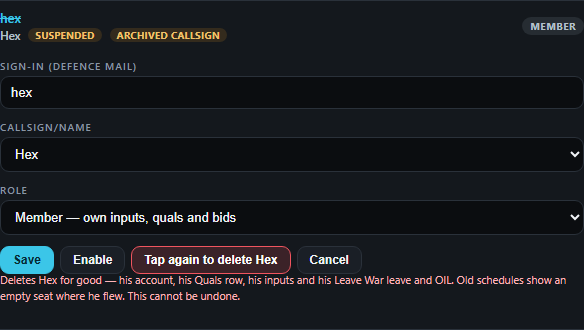
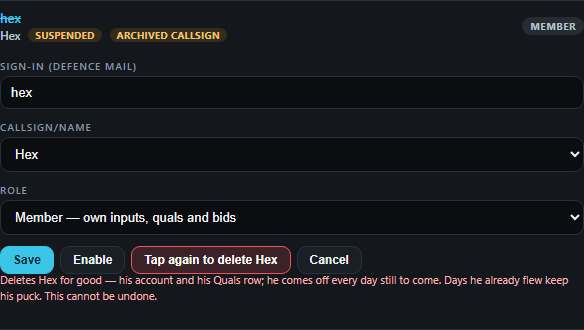
ruling D297 -- a man deleted for leaving flying for good keeps his puck on every day he already flew, and is taken off days still to come (narrows D287 -- marked; data-model, engine-rules, [POST-OUT-OUTCOMES] corrected); the mock-up's section 5 redrawn and republished (Version 3). Documents only.

Changed region(s): [[0.0, 0.8182, 0.9863, 0.9091]]

diff --git a/raptor-port/docs/mock/post-out.html b/raptor-port/docs/mock/post-out.html
@@ -108,14 +108,14 @@
   </section>
 
   <section>
-    <div class="head"><h2>5 · Leaving flying for good: deleted — account and person</h2><span class="rul">D287 · D290</span></div>
-    <p>Delete asks twice and says what goes. Afterwards he's on no list and his callsign is free; every day he was on
-      shows an empty seat, published days included. Underneath, his record is kept as a hidden "deleted" mark, never
-      erased.</p>
+    <div class="head"><h2>5 · Leaving flying for good: deleted — account and person</h2><span class="rul">D287 · D290 · D297</span></div>
+    <p>Delete asks twice and says what goes. Afterwards he's on no list and his callsign is free. <b>Every day he already
+      flew keeps his puck</b>, published or not; <b>days still to come lose him</b>. Underneath, his record is kept as a
+      hidden "deleted" mark, never erased.</p>
     <div class="pics">
       <figure class="mid"><img src="img/post-out/desktop-2b-delete-confirm.png" alt="The account editor asking to tap again to delete Hex, listing what goes"><figcaption><span class="tag drawn">drawn</span>the second tap, and what goes</figcaption></figure>
-      <figure class="mid"><img src="img/post-out/desktop-5a-before-delete.png" alt="Tuesday's RU line: Drifter and Vector"><figcaption><span class="tag real">real</span>before — Tuesday's RU line: Drifter and Vector</figcaption></figure>
-      <figure class="mid"><img src="img/post-out/desktop-5b-after-delete.png" alt="The same line after Vector is deleted: Drifter and an empty seat"><figcaption><span class="tag real">real</span>after Vector is deleted — an empty seat</figcaption></figure>
+      <figure class="mid"><img src="img/post-out/desktop-5a-before-delete.png" alt="Tuesday's RU line: Drifter and Vector"><figcaption><span class="tag real">real</span>a day he already flew — his puck stays, as here</figcaption></figure>
+      <figure class="mid"><img src="img/post-out/desktop-5b-after-delete.png" alt="The same line after Vector is deleted: Drifter and an empty seat"><figcaption><span class="tag real">real</span>a day still to come — he's taken off (today's raw delete does this to every day; the build only to days to come)</figcaption></figure>
     </div>
   </section>
 
@@ -156,7 +156,7 @@
     <div class="head"><h2>What I need from you</h2></div>
     <ol>
       <li><b>Approve the mock-up</b>, or tell me what to change (a section number is enough).</li>
-      <li><b>Section 5:</b> should the days a deleted man already flew keep his puck? (See my answer in the chat.)</li>
+      <li><b>Section 5, his Leave War record:</b> keep his past leave and OIL, shown only in the months he was here? (See my answer in the chat.)</li>
     </ol>
   </section>
 </main>

diff --git a/.claude/rules/decisions/how-we-work.md b/.claude/rules/decisions/how-we-work.md
@@ -9,6 +9,7 @@ never pay or money).
 
 | # | Date | His ruling, in his words where short enough | What it means | Where it lives now |
 |---|---|---|---|---|
+| D297 | 27 Sep 26 | **"5. recommended yes"** — to *"Can a deleted man keep his puck on schedules already published? … Every day he already flew keeps his puck, published or not; days still to come lose him; he's gone from everything else; if his callsign is given to someone new, old days still show the old man"* (after his own *"if this person is deleted. Can published schedules with the user still retain the puck?"*) | **A MAN DELETED FOR LEAVING FLYING FOR GOOD KEEPS HIS PUCK ON EVERY DAY HE ALREADY FLEW — PUBLISHED OR NOT — AND IS TAKEN OFF EVERY DAY STILL TO COME** (on a published day that reads pending, as any change does). He is gone from every list, picker, the Leave War's current views and sign-in; his callsign is free, and if a new man takes it the old days still show the old one (the app knows each by his id). **Narrows D287**, whose "every day he was on shows his seat empty, published days included" gives way — the published record stays true (D45's principle, which D287 had set aside for this act, holds again). Made possible by D290 (his record kept underneath as a hidden "deleted" mark) | `OUTSTANDING.md` `[POST-OUT-OUTCOMES]`; D287's row (narrowed); `raptor-port/docs/data-model.md` §3 Person; `raptor-port/docs/engine-rules.md` (the who→personId correction note); `raptor-port/docs/mock/post-out.html` §5 |
 | D296 | 27 Sep 26 | **"8. A"** — to *"The guest mark (section 8): A, B or C?"* on the post-out mock-up | **A GUEST FROM ANOTHER COMMUNITY IS MARKED BY AN ORANGE CORNER ON HIS PUCK (option A).** Settles D289's form, for when it is built (with the shared database, D288). Taken knowing the agent's caveat: beside a red warning chip the corner is a little less distinct | `raptor-port/docs/mock/post-out.html` §8; `OUTSTANDING.md` `[XFER]` |
 | D295 | 27 Sep 26 | *"so in order to rename, we must first change the new person, then restore the archived person in order to change his name? Can we just change the archived name directly?"* — on the mock-up's §6 (Restore refused while the callsign is taken) | **AN ARCHIVED MAN CAN BE RENAMED DIRECTLY, ON QUALS' ARCHIVED LIST.** A name clash on restore is then solved by renaming the archived man (or the new one) — no restore-first. **Refines D286** (whose reading (1) — Restore refuses while the name is taken, never renaming anyone by itself — stands). **The agent's reading, stated to him so he can correct it:** a rename box on each archived row (admin only), and when Restore meets a taken callsign it offers that same box on the spot ("Ace is taken — give him another callsign"), so the rename and the restore are one step | `raptor-port/docs/mock/post-out.html` §6; `OUTSTANDING.md` `[POST-OUT-OUTCOMES]`; on build: `raptor-port/src/ui/QualsPage.tsx` (the archived list), `raptor-port/src/engine/slots.ts` (`renameCallsign`) |
 | D294 | 27 Sep 26 | **"1. can use less words and space to have these 4 options. Change to 'Overseas Sqn', 'Fully delete', 'SANS', 'Transfer to Sqn'."** · **"3. is there a blue box drawn? if yes can u draw it connected to the left edge."** — his look at the post-out mock-up (`docs/mock/post-out.html`) | **THE POST-OUT CHOICES ARE FOUR SHORT CHIPS — "Overseas Sqn", "Fully delete", "SANS", "Transfer to Sqn" — TAKING LITTLE ROOM; AND THE "HE'S BACK" LINE ON QUALS LINES UP WITH THE PAGE'S LEFT EDGE.** Replaces the mock-up's first drawing (four wide buttons, each with a sentence). **The agent's reading, stated to him so he can correct it:** one short line under the chips says what the chosen one does on the date (the words the buttons dropped); "Sqn" alone is fine — D58 bars a squadron NUMBER paired with it, and the app already shows "EXT SQN" | `raptor-port/docs/mock/post-out.html` §1 and §3; `OUTSTANDING.md` `[POST-OUT-OUTCOMES]` |
@@ -18,7 +19,7 @@ never pay or money).
 | D290 | 27 Sep 26 | **"3. hidden mark"** — to *"Deleting underneath: a hidden 'deleted' mark (recommended) or erase for real?"*, after being told the data model for IT says a person is never erased (every record points at him) | **A MAN DELETED FOR LEAVING FLYING FOR GOOD (D287) IS KEPT UNDERNEATH AS A HIDDEN "DELETED" MARK — never erased.** On screen it is D287 exactly (gone from every list, his callsign free, his old seats reading empty); in the database his row stays, marked deleted and invisible everywhere — the data model's tombstone and the platform's own way of deleting. **Settles D287's "how"**; the data model's never-hard-deleted rule stands for the database | `raptor-port/docs/data-model.md` §3 Person and §10 (the note now says answered); `OUTSTANDING.md` `[POST-OUT-OUTCOMES]` |
 | D289 | 27 Sep 26 | **"1. yes"** · **"2. yes, what if the name is long and with the F16 on a puck, would anyone not be able to see it?"** — to *"A community = the squadrons flying one aircraft type?"* and *"A guest from another community always tagged ('Viper · F-16')?"* | **A COMMUNITY IS THE SQUADRONS FLYING ONE AIRCRAFT TYPE (F-15, F-16), AND A GUEST FROM ANOTHER COMMUNITY IS ALWAYS MARKED AS ONE.** Confirms the agent's proposal in D288, (1) and (3). **His concern stands with it:** the mark must never hide the callsign — a puck is a fixed width and never wraps (7 Aug 26), and already shows only about 9–10 letters. **The agent's reading, stated to him so he can correct it:** on a puck the mark is not text but a small colour mark (the way the CAT and SANS already ride the puck's edges), with "Viper · F-16" in full wherever there is room — the lists, the pickers, a tap or hover; its form is settled with a mock-up before it is built (the house rule for a visual change) | `OUTSTANDING.md` `[XFER]`; `raptor-port/docs/architecture-direction.md` §3; memory `multi-squadron-and-person-transfer` |
 | D288 | 27 Sep 26 | *"within the F-15 community we will try to only have 1 callsign, and not conflict it. But if we want to create a F-16 community in this app, there is a high chance that the same callsign will be used compared to the f-15 community. and sometimes they might join us to fly as like guest flyers. So how should this be managed"* | **CALLSIGNS ARE UNIQUE WITHIN A COMMUNITY, NOT ACROSS THE APP.** The F-15 community keeps one callsign per man; a future F-16 community on the same app will reuse callsigns the F-15 one has; and its people may fly with an F-15 squadron as GUEST FLYERS. **Future — with the multi-squadron database (D281, D282); nothing to build now**, but the database must not make a callsign unique across the whole app. **The agent's proposal, put to him the same day (his answers pending):** (1) a community = the squadrons flying one aircraft type; (2) the app already knows a man by a hidden id, never his name, so two "Viper"s are never mixed up in the data; (3) a guest from another community wears a small tag on his puck and in every picker ("Viper · F-16"), always; (4) a guest is PICKED from a list of guest flyers, never by typing a bare callsign — typed, a callsign means your own community's man; (5) his leave, quals and account stay with his own squadron (as D282) | `raptor-port/docs/architecture-direction.md` §3 (More than one squadron); `OUTSTANDING.md` `[XFER]`; memory `multi-squadron-and-person-transfer` |
-| D287 | 26 Sep 26 | **"I think B, truly delete him."** — choosing, for someone who LEAVES FLYING FOR GOOD, among A archive him (on the Archived list forever, old schedules keep his name), B truly delete him (gone from every list; old schedules show an empty seat where he flew) and C delete him but keep his callsign for old schedules (the agent's recommendation) — after he tested nothing crashes and asked *"what would break tho. we dont need this person on the schedule anymore"*, and worried *"I scared my archive list will be huge next time"* | **A MAN WHO LEAVES FLYING FOR GOOD IS DELETED OUTRIGHT — HIS ACCOUNT AND HIS PERSON.** He goes from every list, the Archived one included, and every day he was ever on shows his seat empty, published days included. **Sets aside the agent's recommendation (C)** and **D280's reading (2)** ("deleting an account never deletes the person"). **Narrows D45's principle** (nothing on a published schedule changes without the scheduler acknowledging it) for this one act — his call, made knowing it: he was told, with a picture from the running app, that a published day's seat then reads empty with nobody told. **The agent's readings, stated to him so he can correct them:** (1) everything that is his goes with him — his Quals row, his account, his inputs, his Leave War leave and OIL — so nothing is left stored that no screen shows; (2) on a day still to come he is taken OFF (on a published day that reads pending, as any change does), while a past day keeps its empty seat; (3) the delete asks twice and names what goes; it cannot be undone; (4) if he is ever taken back he is a new person (his 13 Sep 26 "fresh") | `OUTSTANDING.md` `[POST-OUT-OUTCOMES]`; D280's row (reading (2) set aside); on build: `raptor-port/src/state/accounts.ts`, `raptor-port/src/state/roster-add.ts` (the one place a person is made — and now unmade), `raptor-port/src/leavewar/sync.ts`, `raptor-port/docs/engine-rules.md`, `raptor-port/docs/data-model.md` §11 (`Person` D, `User` D); **`raptor-port/docs/data-model.md` §3 Person, `User.enabled` and §10 (their "never deleted" marked, 27 Sep 26)** |
+| D287 | 26 Sep 26 | **"I think B, truly delete him."** — choosing, for someone who LEAVES FLYING FOR GOOD, among A archive him (on the Archived list forever, old schedules keep his name), B truly delete him (gone from every list; old schedules show an empty seat where he flew) and C delete him but keep his callsign for old schedules (the agent's recommendation) — after he tested nothing crashes and asked *"what would break tho. we dont need this person on the schedule anymore"*, and worried *"I scared my archive list will be huge next time"* | **— NARROWED 27 Sep 26 BY D297: every day he already flew KEEPS his puck; only days still to come lose him.** **A MAN WHO LEAVES FLYING FOR GOOD IS DELETED OUTRIGHT — HIS ACCOUNT AND HIS PERSON.** He goes from every list, the Archived one included, and every day he was ever on shows his seat empty, published days included. **Sets aside the agent's recommendation (C)** and **D280's reading (2)** ("deleting an account never deletes the person"). **Narrows D45's principle** (nothing on a published schedule changes without the scheduler acknowledging it) for this one act — his call, made knowing it: he was told, with a picture from the running app, that a published day's seat then reads empty with nobody told. **The agent's readings, stated to him so he can correct them:** (1) everything that is his goes with him — his Quals row, his account, his inputs, his Leave War leave and OIL — so nothing is left stored that no screen shows; (2) on a day still to come he is taken OFF (on a published day that reads pending, as any change does), while a past day keeps its empty seat; (3) the delete asks twice and names what goes; it cannot be undone; (4) if he is ever taken back he is a new person (his 13 Sep 26 "fresh") | `OUTSTANDING.md` `[POST-OUT-OUTCOMES]`; D280's row (reading (2) set aside); on build: `raptor-port/src/state/accounts.ts`, `raptor-port/src/state/roster-add.ts` (the one place a person is made — and now unmade), `raptor-port/src/leavewar/sync.ts`, `raptor-port/docs/engine-rules.md`, `raptor-port/docs/data-model.md` §11 (`Person` D, `User` D); **`raptor-port/docs/data-model.md` §3 Person, `User.enabled` and §10 (their "never deleted" marked, 27 Sep 26)** |
 | D286 | 26 Sep 26 | *"Or its allow to be use, just that when another person from archive wants to go back, the archive person or the new person needs to change their name"* — after asking *"If i have too many people archive will i face the issue of not being able to reuse names?"* (told: yes — today an archived man's callsign can never be given to anyone else) | **AN ARCHIVED MAN'S CALLSIGN MAY BE GIVEN TO A NEW PERSON. IF THE ARCHIVED MAN IS LATER RESTORED WHILE HIS CALLSIGN IS IN USE, ONE OF THE TWO MUST BE RENAMED FIRST.** **Narrows the one-callsign rule** (PID-01, 12 Aug 26, hardened 14 Sep 26; kept by D214's "one callsign rule"): a callsign held by someone ON the roster is still refused; one held only by an ARCHIVED man is free. **The agent's readings, stated to him so he can correct them:** (1) Restore refuses while the name is taken and says so ("Viper is taken on the roster — rename one of them first"), never renaming anyone by itself; (2) a typed callsign (a row, the search, a sign-up) finds the person on the roster, never the archived one; (3) old schedules keep showing the archived man's days as his — the schedule holds the person, not his name; (4) the sign-up's and Admin → Users' "is archived — restore them instead" refusal gives way to allowing the name; (5) — added when he asked *"if some one is called cross, and its archived. then can a new person called cross when they sign up?"* (answered: yes, once built — the sign-up never checks names; it is the approve that allows it) — when a request's callsign belongs ONLY to an archived man, Approve opens on New person, filled from the request, with a line saying an archived man holds that callsign | `OUTSTANDING.md` `[POST-OUT-OUTCOMES]` (the build); pointers in `raptor-port/docs/engine-rules.md` (who→personId) and `raptor-port/CLAUDE.md` (Person identity); on build: `raptor-port/src/state/roster-add.ts` (`newPersonProblem`, its header, the PID-01 test), `raptor-port/src/engine/people.ts` (`ID_BY_CS` — the roster's man), Quals Restore |
 | D285 | 26 Sep 26 | **"3. yes"** — to *"Are 'Suspend / Enable' and 'Delete account' right?"* | **THE ACCOUNT BUTTONS READ "SUSPEND" / "ENABLE" AND "DELETE ACCOUNT".** "Suspend / Enable" replaces today's "Switch off / Switch on" on Admin → Users (the same act — D204, D280); "Delete account" is new (D280). **The agent's reading, stated to him so he can correct it:** the screens that name the state follow the words — the account's tag "switched off" becomes "suspended", and the sign-in screen "Your access is switched off" becomes "Your access is suspended" | `OUTSTANDING.md` `[POST-OUT-OUTCOMES]`; on build: `raptor-port/src/ui/UsersPanel.tsx`, `raptor-port/src/ui/AccessScreen.tsx`, `raptor-port/docs/ui-contracts.md`, `raptor-port/docs/engine-rules.md` §Auth / roles |
 | D284 | 26 Sep 26 | **"2. Just maintain it, but a prompt to update it."** — to *"Coming back from overseas. Does he return with his old quals exactly as they were, or start fresh? Your 13 Sep rule was 'fresh' for someone who left the whole system."* | **A MAN BACK FROM OVERSEAS RETURNS AS HE WAS — HIS QUALS KEPT — AND THE APP PROMPTS THE ADMIN TO UPDATE THEM.** **Narrows his 13 Sep 26 "fresh on return" rule** (memory `multi-squadron-and-person-transfer`, `OUTSTANDING.md` `[RECALL]`, never D-numbered): it no longer covers a man archived while overseas. **The agent's readings, stated to him so he can correct them:** (1) "fresh" still applies to someone who LEFT FLYING FOR GOOD (his account deleted, D229) and is ever taken back; (2) "maintain" covers his whole record, the Leave War's too, not only his quals; (3) the prompt comes when the admin restores him / enables his account: it says he is back and to check his quals and CAT, with a way straight to his Quals row — it changes nothing by itself | `OUTSTANDING.md` `[POST-OUT-OUTCOMES]` and `[RECALL]` (narrowed); memory `multi-squadron-and-person-transfer`; on build: `raptor-port/src/ui/QualsPage.tsx` (Restore), `raptor-port/src/ui/UsersPanel.tsx` (Enable) |

diff --git a/DECISIONS.md b/DECISIONS.md
@@ -48,7 +48,7 @@ ruling, or an explicit no. **Not** ordinary task instructions ("run the tests", 
 
 | Area | File | Loads by itself | Rulings, newest first |
 |---|---|---|---|
-| How we work | `.claude/rules/decisions/how-we-work.md` | in EVERY session | D296, D295, D294, D293, D292, D291, D290, D289, D288, D287, D286, D285, D284, D283, D282, D281, D280, D229, D228, D227, D226, D225, D224, D223, D222, D221, D220, D219, D217, D216, D215, D214, D213, D211, D210, D204, D203, D201, D200, D182, D180, D173, D166, D165, D106, D90, D162, D148, D147, D145, D144, D143, D141, D140, D138, D137, D136, D135, D151, D89, D87, D86, D85, D84, D78, D73, D72, D70, D69, D68, D67, D63, D62, D60, D59, D58, D57, D56, D54, D53, D30, D29, D23, D22, D17, D16, D14, D13, D12, D11, D10, D9, D8, D7, D6, D5, D4 |
+| How we work | `.claude/rules/decisions/how-we-work.md` | in EVERY session | D297, D296, D295, D294, D293, D292, D291, D290, D289, D288, D287, D286, D285, D284, D283, D282, D281, D280, D229, D228, D227, D226, D225, D224, D223, D222, D221, D220, D219, D217, D216, D215, D214, D213, D211, D210, D204, D203, D201, D200, D182, D180, D173, D166, D165, D106, D90, D162, D148, D147, D145, D144, D143, D141, D140, D138, D137, D136, D135, D151, D89, D87, D86, D85, D84, D78, D73, D72, D70, D69, D68, D67, D63, D62, D60, D59, D58, D57, D56, D54, D53, D30, D29, D23, D22, D17, D16, D14, D13, D12, D11, D10, D9, D8, D7, D6, D5, D4 |
 | Tracker | `.claude/rules/decisions/tracker.md` | when a Tracker file is read (its code, docs, scripts, evidence) | D191, D190, D158, D157, D134, D132, D131, D130, D129, D128, D127, D126, D124, D123, D122, D121, D120, D64 |
 | Leave War | `.claude/rules/decisions/leave-war.md` | when a Leave War file is read (its code, docs, e2e, evidence) | D160, D159 |
 | Scheduler & amendments | `.claude/rules/decisions/scheduler.md` | when a scheduler, board, engine, amendment or storage file is read | D218, D212, D189, D188, D187, D186, D185, D184, D183, D179, D178, D177, D176, D175, D174, D172, D171, D170, D169, D168, D167, D119, D118, D117, D116, D114, D113, D111, D110, D109, D108, D107, D105, D103, D102, D101, D100, D99, D98, D97, D96, D95, D94, D93, D92, D91, D164, D161, D149, D77, D66, D65, D51, D50, D47, D45, D44, D41, D40, D39, D38, D37, D36, D33, D27 |

diff --git a/OUTSTANDING.md b/OUTSTANDING.md
@@ -1196,7 +1196,7 @@ group that day, tracked (D283); (4) a transfer — future, `[XFER]`. Buttons: "S
 Admin → Users has "Switch off / on", no delete. **To build:** the sheet asks which outcome and the app does it on the
 date (each also by hand); touches the Leave War (the sheet, `runPoArchive`), Quals, Admin → Users, data-model §11 (`User`
 D), `perms.ts` — FULL tier. **Leaving flying for good — D287, his pick "B, truly delete him":** account AND person
-deleted; every day he was on shows his seat empty, published days included (tested 26 Sep 26: nothing crashes);
+deleted; **D297: every day he already flew keeps his puck, published or not; days still to come lose him**;
 everything that is his goes too (inputs, Leave War leave and OIL — nothing left stored unseen); a day still to come
 takes him off (pending on a published day); asks twice, cannot be undone. **Underneath — D290 "hidden mark":** his
 row is kept, marked deleted and invisible everywhere (the data model's tombstone), never erased. **And names — D286:** an archived man's callsign may go to a new person (today it is refused); restoring him while it

diff --git a/raptor-port/docs/data-model.md b/raptor-port/docs/data-model.md
@@ -72,8 +72,8 @@ Owner: **Shell**. The one identity in the application. The scheduler
 roster, the Leave War's projected roster and the Tracker's student link all
 point at this row; no second identity is minted anywhere. **Never
 hard-deleted** — `archived` and the tombstone are the only ways out. **— NARROWED 26 Sep 26 BY D287 (owner: "truly
-delete him"): a man who leaves flying for good is DELETED — gone from every list, his seats reading empty on every day
-he was on. HOW the database does it — **answered 27 Sep 26, D290 ("hidden mark"): the tombstone below** — the row kept, marked
+delete him"): a man who leaves flying for good is DELETED — gone from every list; D297 (27 Sep 26): every day he
+already flew keeps his puck, days still to come lose him. HOW the database does it — **answered 27 Sep 26, D290 ("hidden mark"): the tombstone below** — the row kept, marked
 deleted, invisible everywhere; never erased (`OUTSTANDING.md` `[POST-OUT-OUTCOMES]`).**
 
 | Field | Type | Req | Meaning |

diff --git a/raptor-port/docs/engine-rules.md b/raptor-port/docs/engine-rules.md
@@ -2315,8 +2315,8 @@ pending**: the person in the seat has not changed, only the spelling, and
 `rowCrew` diffs identically — an AL full of spelling would be noise. *(Corrected 26 Sep 26: this said "Published day
 snapshots keep the spelling they were issued with" — not so, and against D186: a published day reads the callsign
 LIVE, a rename updating it at once (`engine/faceattrs.ts` — the issued face keeps CAT, seat, ground crew, SANS and SXO,
-"the callsign stays live"). The same live read is why a person deleted outright vanishes from every day he was on,
-published ones included — `[POST-OUT-OUTCOMES]`.)*
+"the callsign stays live"). The same live read is why a person deleted outright today vanishes from every day he was on,
+published ones included; `[POST-OUT-OUTCOMES]` builds the delete so days he already flew keep his puck — D297.)*
 
 ## Publishing / amendments
 
